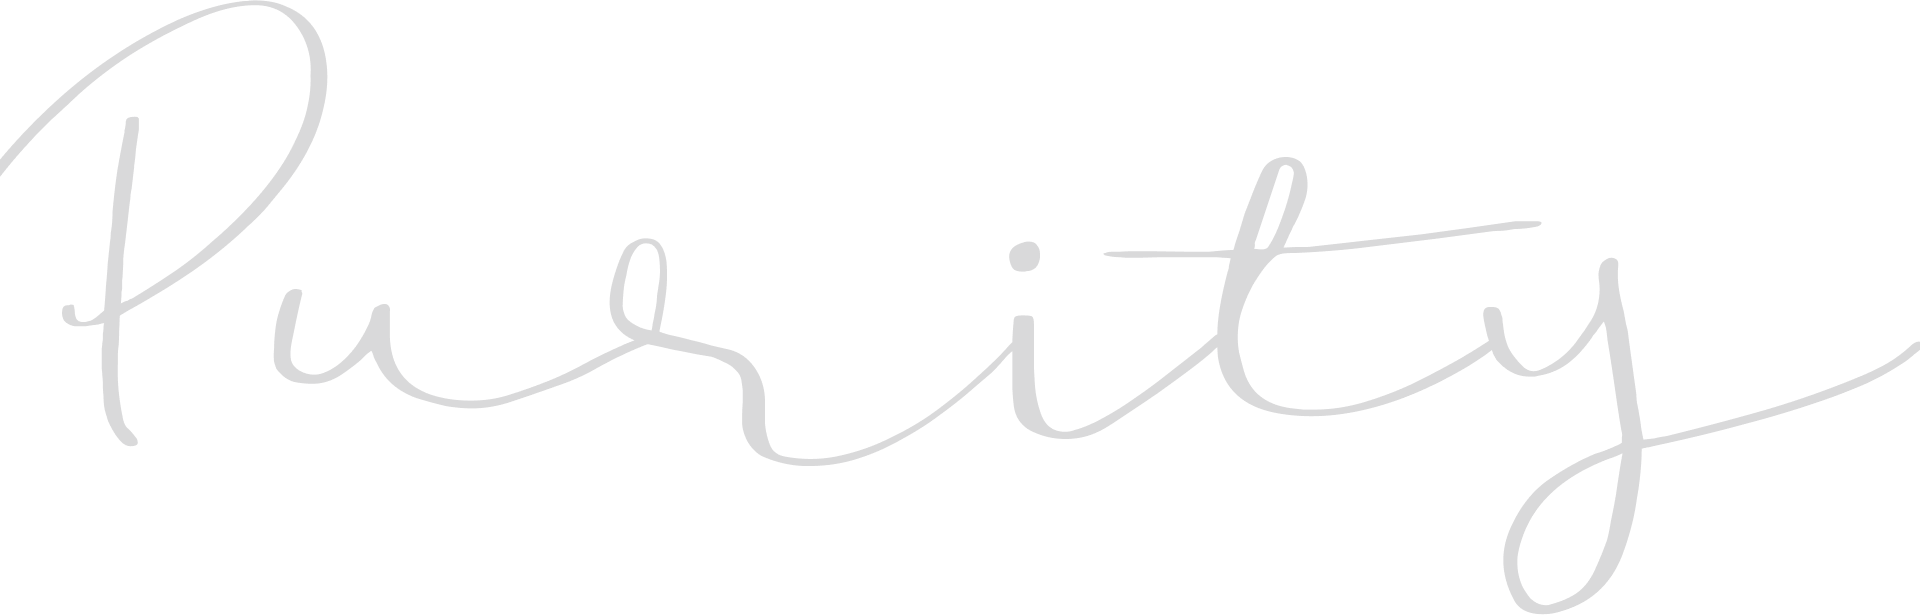
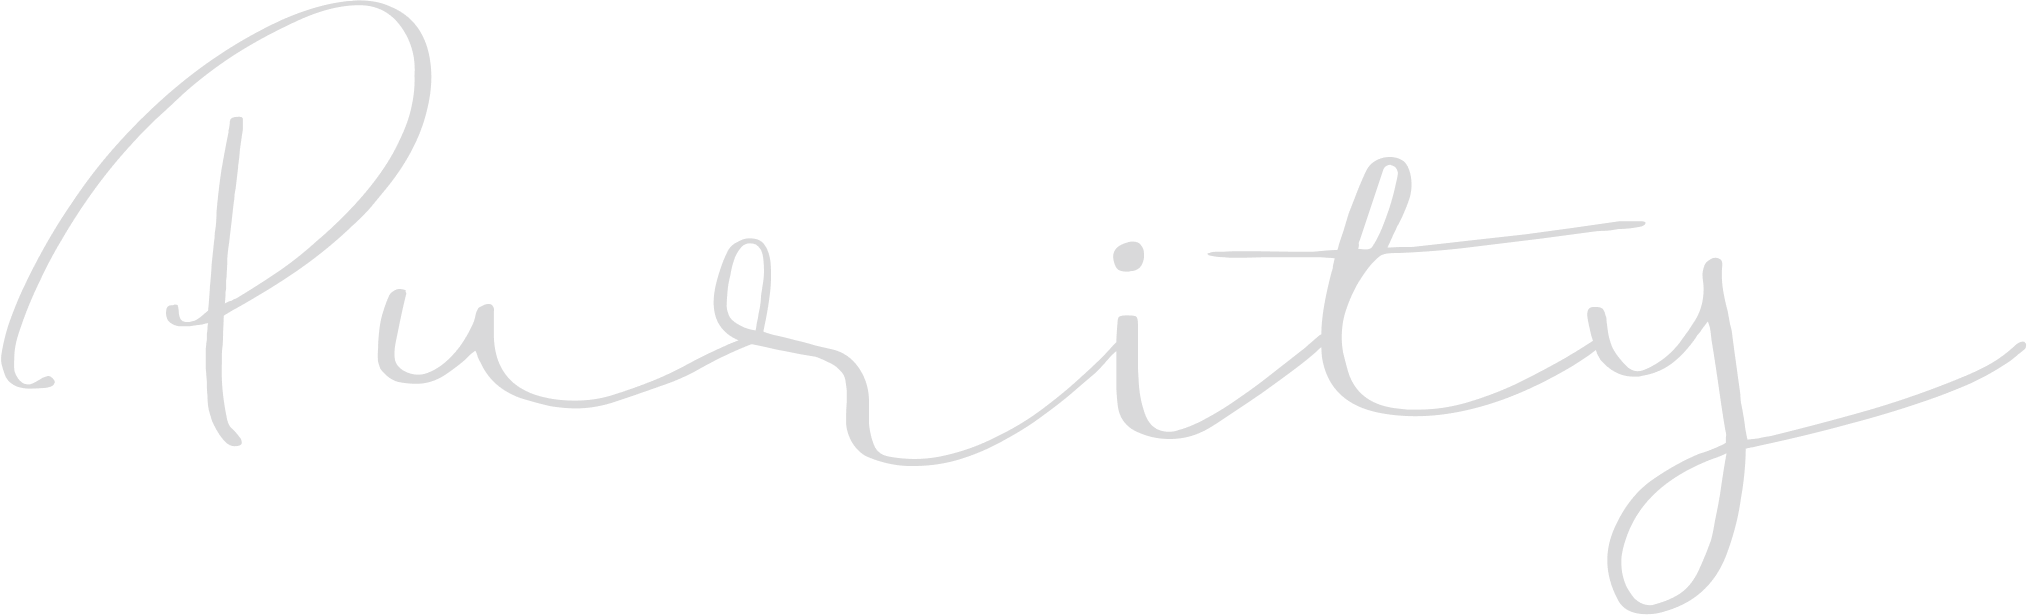
my commit

diff --git a/src/pages/index.js b/src/pages/index.js
@@ -39,6 +39,7 @@ const Home = ({ newestProps, popularProps, isCsr }) => {
                     configs={{
                         background: '/img/slide-card-bg.png',
                         pagination: true,
+                        height: 600,
                     }}
                 >
                     {popular.map((blog, index) => (
@@ -50,9 +51,9 @@ const Home = ({ newestProps, popularProps, isCsr }) => {
                                     </div>
                                 </div>
                                 <div className="slide-des">
-                                    <div className="py-2 mb-2">
-                                        <div className="mr-auto small_text">{ blog.categories.map((category) => {return category.name}).join(' | ') }</div>
-                                        <div className="medium_text">{ blog.title }</div>
+                                    <div className="py-2 mb-3">
+                                        <div className="mr-auto mb-2 small_text text-black">{ blog.categories.map((category) => {return category.name}).join(' | ') }</div>
+                                        <div className="medium_text text-black">{ blog.title }</div>
                                     </div>
                                 </div>
                             </div>
@@ -61,7 +62,7 @@ const Home = ({ newestProps, popularProps, isCsr }) => {
                 </CardSlider>
                 <div className="absolute t-0 l-0 w-full h-full flex justify-center items-center">
                     <div className="max-w-[293px] absolute z-10 top-8 left-[30%]">
-                        <img className="w-full" src="./img/Topmost.png" alt="smile" loading="lazy"/>
+                        <img className="w-full" src="./img/Topmost.svg" alt="smile" loading="lazy"/>
                     </div>
                     <div>
                         <img className="w-full" src="./img/Signature.png" alt="smile" loading="lazy"/>
@@ -332,29 +333,31 @@ const Home = ({ newestProps, popularProps, isCsr }) => {
                 configs={{
                     vertical: true,
                     width: 1000,
+                    height: 500,
                     isText: true,
+                    duration: 3000,
                     background: '/img/homedecor.png',
                 }}
             >
-                <div className="slide-card-item heading_1 text-white mx-8">
+                <div className="slide-card-item heading_1 text-white">
                     “Tempus, tristique morbi scelerisque sed. Diam nec ut sed est sit in tortor.”
                 </div>
-                <div className="slide-card-item heading_1 text-white mx-8">
+                <div className="slide-card-item heading_1 text-white">
                     “QWempus, tristique morbi scelerisque sed. Diam nec ut sed est sit in tortor.”
                 </div>
-                <div className="slide-card-item heading_1 text-white mx-8">
+                <div className="slide-card-item heading_1 text-white">
                     “Uempus, tristique morbi scelerisque sed. Diam nec ut sed est sit in tortor.”
                 </div>
-                <div className="slide-card-item heading_1 text-white mx-8">
+                <div className="slide-card-item heading_1 text-white">
                     “WKempus, tristique morbi scelerisque sed. Diam nec ut sed est sit in tortor.”
                 </div>
-                <div className="slide-card-item heading_1 text-white mx-8">
+                <div className="slide-card-item heading_1 text-white">
                     “LLempus, tristique morbi scelerisque sed. Diam nec ut sed est sit in tortor.”
                 </div>
-                <div className="slide-card-item heading_1 text-white mx-8">
+                <div className="slide-card-item heading_1 text-white">
                     “AAempus, tristique morbi scelerisque sed. Diam nec ut sed est sit in tortor.”
                 </div>
-                <div className="slide-card-item heading_1 text-white mx-8">
+                <div className="slide-card-item heading_1 text-white">
                     “ALempus, tristique morbi scelerisque sed. Diam nec ut sed est sit in tortor.”
                 </div>
             </CardSlider>

diff --git a/src/pages/about.js b/src/pages/about.js
@@ -5,7 +5,7 @@ import Link from 'next/link'
 const About = () => {
     return (
         <div>
-            <div className="px-4 py-8 relative">
+            <div className="pb-8 pt-6 relative">
                 <div className="m-w flex justify-center mx-auto gap-6">
                     <div className="hidden sm:block pt-8">
                         <img className="w-full" src="./img/about1.png" alt="smile" loading="lazy"/>
@@ -19,7 +19,8 @@ const About = () => {
                 </div>
                 <div className="absolute t-0 pt-8">
                     <div className="text-center animate slideInUp animate--delay-medium">
-                        <img src="./img/Purity.png" alt="smile" loading="lazy" />
+                        <img className="dark:hidden" src="./img/Purity.png" alt="smile" loading="lazy" />
+                        <img className="dark:block hidden" src="./img/Purity2.png" alt="smile" loading="lazy" />
                     </div>
                 </div>
             </div>
@@ -49,7 +50,10 @@ const About = () => {
                         <div><img className="w-full pt-4" src="./img/about6.jpg" alt="smile" loading="lazy"/></div>
                     </div>
                     <div className="absolute top-0 l-0 w-full h-full flex justify-center items-center">
-                        <div className="max-w-[840px] h-fit"><img className="w-full" src="./img/Skincare Blog.png" alt="smile" loading="lazy"/></div>
+                        <div className="max-w-[840px] h-fit">
+                            <img className="w-full dark:hidden" src="./img/Skincare Blog.png" alt="smile" loading="lazy"/>
+                            <img className="w-full hidden dark:block" src="./img/Skincare Blog2.png" alt="smile" loading="lazy"/>
+                        </div>
                     </div>
                 </div>
                 <div className="my-7 border-solid border-y border-ccc py-8 about-me p-60 dark:border-t dark:border-ccc">
@@ -129,7 +133,7 @@ const About = () => {
                             <div className="md:block hidden decor-line mx-3 mb-4 dark:border-solid dark:bg-ccc"></div>
                             <div className="md:grid md:grid-cols-8">
                                 <div className="col-span-8 md:col-span-4">
-                                    <div className="we-do-card pl-4 mb-4 mx-3">
+                                    <div className="we-do-card pl-4 mx-3">
                                         <div className="animate slideInUp animate--delay-slow">
                                             <div>
                                                 <img className="" src="./img/about/do.svg" alt="smile" loading="lazy"/>

diff --git a/src/pages/sub-des/[slug].js b/src/pages/sub-des/[slug].js
@@ -152,11 +152,12 @@ const Sub_destination = ({ categoryProps, postsProps, isCsr, slug, page }) => {
                                             loading="lazy"
                                         />
                                     )}
-                                    <div className="relative pl-5 h-[400px]">
-                                        <div className="heading_1 !text-white mb-2">{post.title}</div>
-                                        <div className="!text-white">{ post.author }</div>
-                                        <div className="!text-white">{ post.categories.map((category) => {return category.name}).join(' | ') }</div>
-                                        <div className="small_text">About {post?.estimate_time} minutes to read</div>
+                                    <div className="m-w mx-auto relative h-[400px] mt-auto flex">
+                                        <div className="">
+                                            <div className="!text-white mb-3">{ post.categories.map((category) => {return category.name}).join(' | ') }</div>
+                                            <div className="heading_1 !text-white mb-2">{post.title}</div>
+                                            <div className="small_text">About {post?.estimate_time} minutes to read</div>
+                                        </div>
                                     </div>
                                 </div>
                             ))}
@@ -185,15 +186,7 @@ const Sub_destination = ({ categoryProps, postsProps, isCsr, slug, page }) => {
                                     with trusted insights from dermatologists, cosmetic chemists, and more.
                                 </div>
                             </div>
-                            <div className="tabs flex justify-center">
-                                <div className="flex">
-
-                                        <div className="rounded-full py-1 px-4 bg-black !bg-white text-white !text-black">subcate</div>
-                                        <div className="mx-3 rounded-full py-1 px-4 bg-black !bg-white text-white !text-black">subcate</div>
-                                        <div className="rounded-full py-1 px-4 bg-black !bg-white text-white !text-black">subcate</div>
-
-                                </div>
-                            </div>
+                        
                             <div className="destination-title border-solid border-y !border-999 border-ccc md:my-5 py-3">
                                 <div className="flex flex-col md:flex-row md:justify-between">
                                     {/*breadcrumb*/}

diff --git a/src/components/common/CardSlider.js b/src/components/common/CardSlider.js
@@ -8,6 +8,7 @@ const CardSlider = ({
     const defaultConfigs = {
         vertical: false,
         width: 300,
+        height: 700,
         isText: false,
         duration: 5000,
         pagination: false,
@@ -96,8 +97,8 @@ const CardSlider = ({
     return (
         <div 
             ref={ref} 
-            className={`card-slider relative flex h-[700px] justify-center items-center ${configs.vertical ? 'card-slider-vertical': ''} ${configs.isText ? 'card-slider-text': ''}`}
-            style={{ backgroundImage: `url(${configs.background})` }}
+            className={`card-slider relative flex justify-center items-center ${configs.vertical ? 'card-slider-vertical': ''} ${configs.isText ? 'card-slider-text': ''}`}
+            style={{ backgroundImage: `url(${configs.background})`, height: `${configs.height}px` }}
         >
             <div 
                 className="flex absolute h-full items-center"

diff --git a/src/pages/admin/comment/index.js b/src/pages/admin/comment/index.js
@@ -5,7 +5,6 @@ import React, { useEffect,
 
 const Admincomment = () => {
 
-
     return(
         <div>
             <div className="category-page pt-5">
